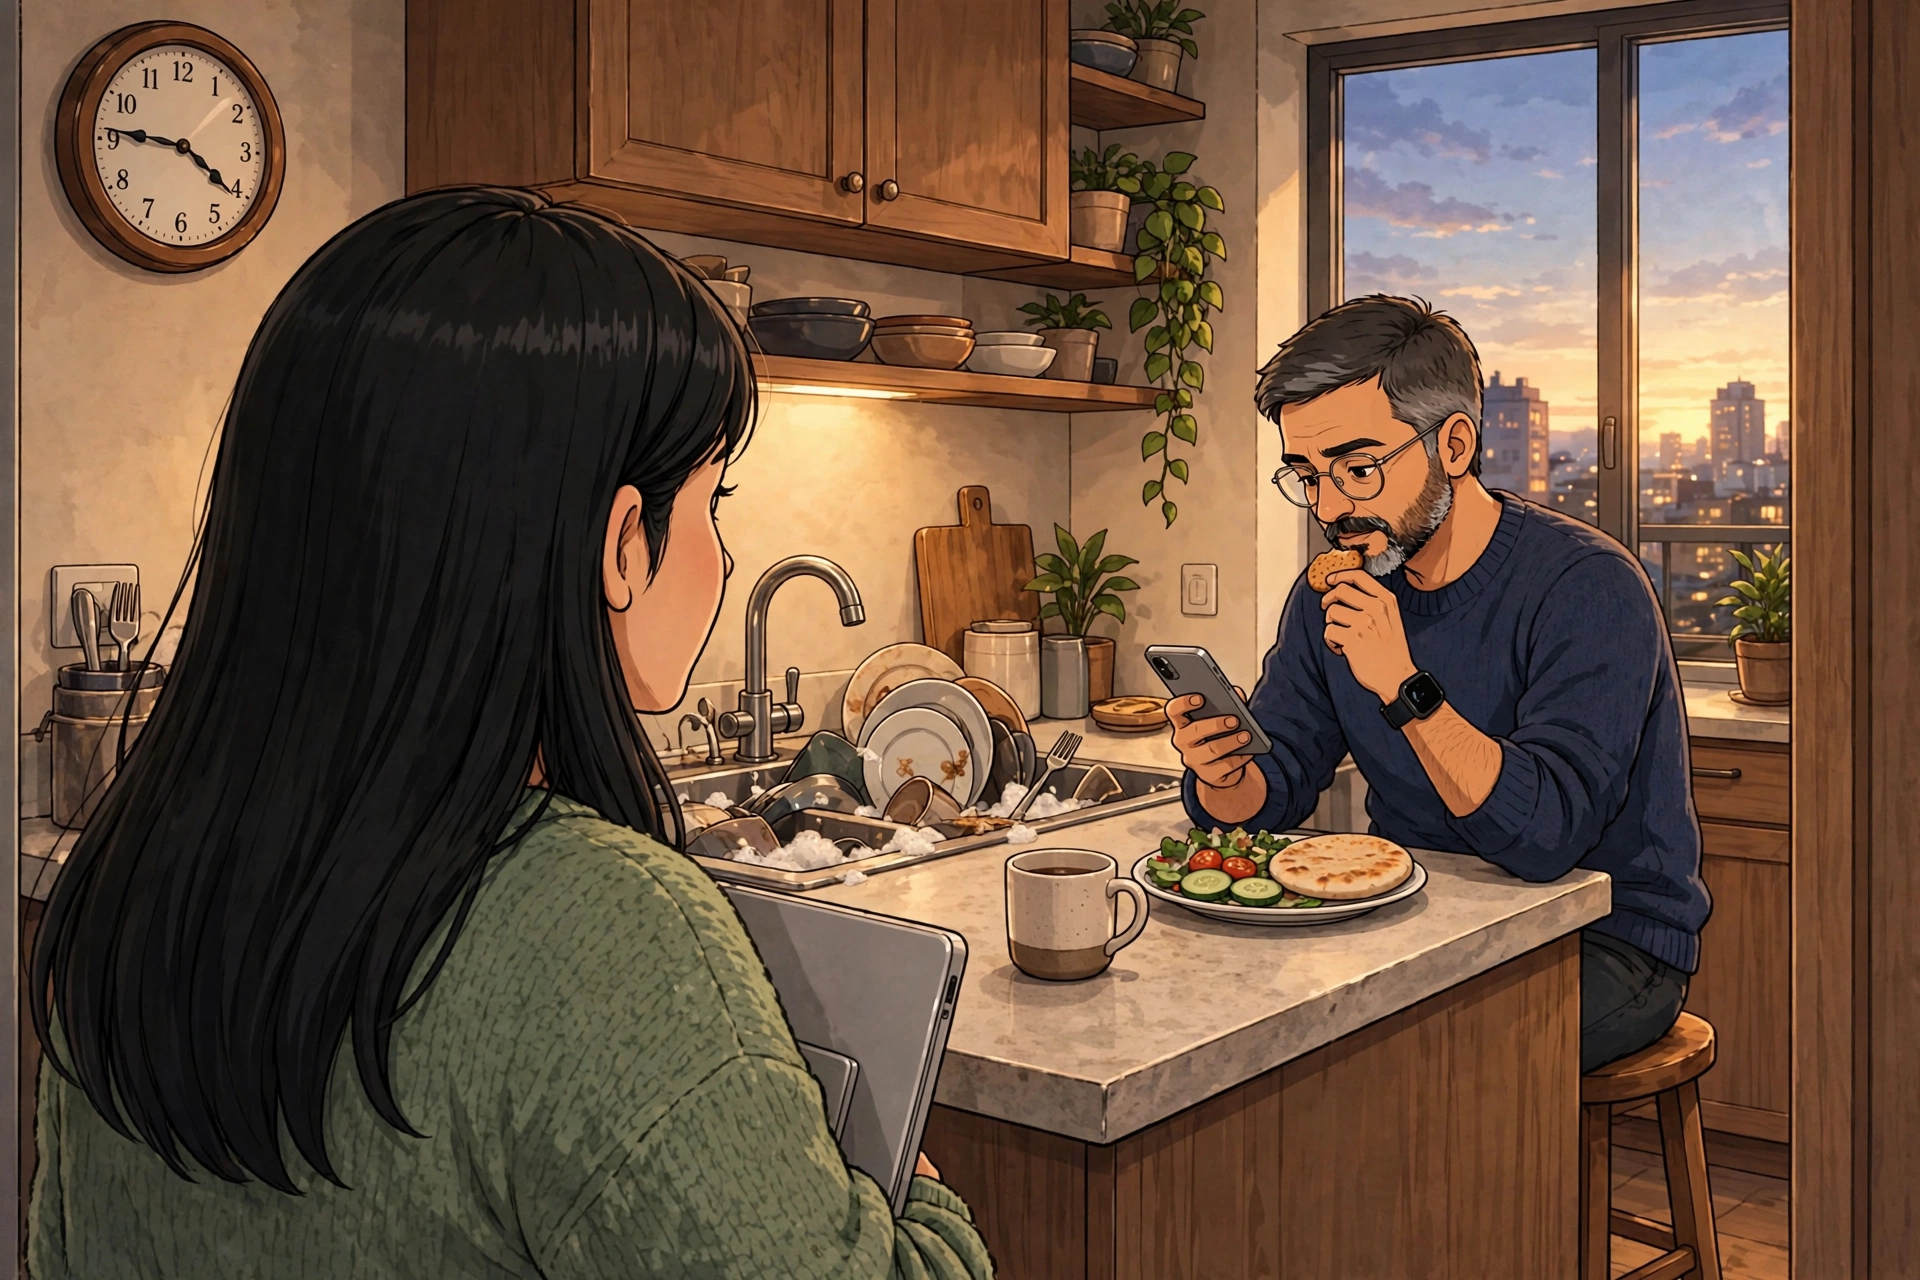
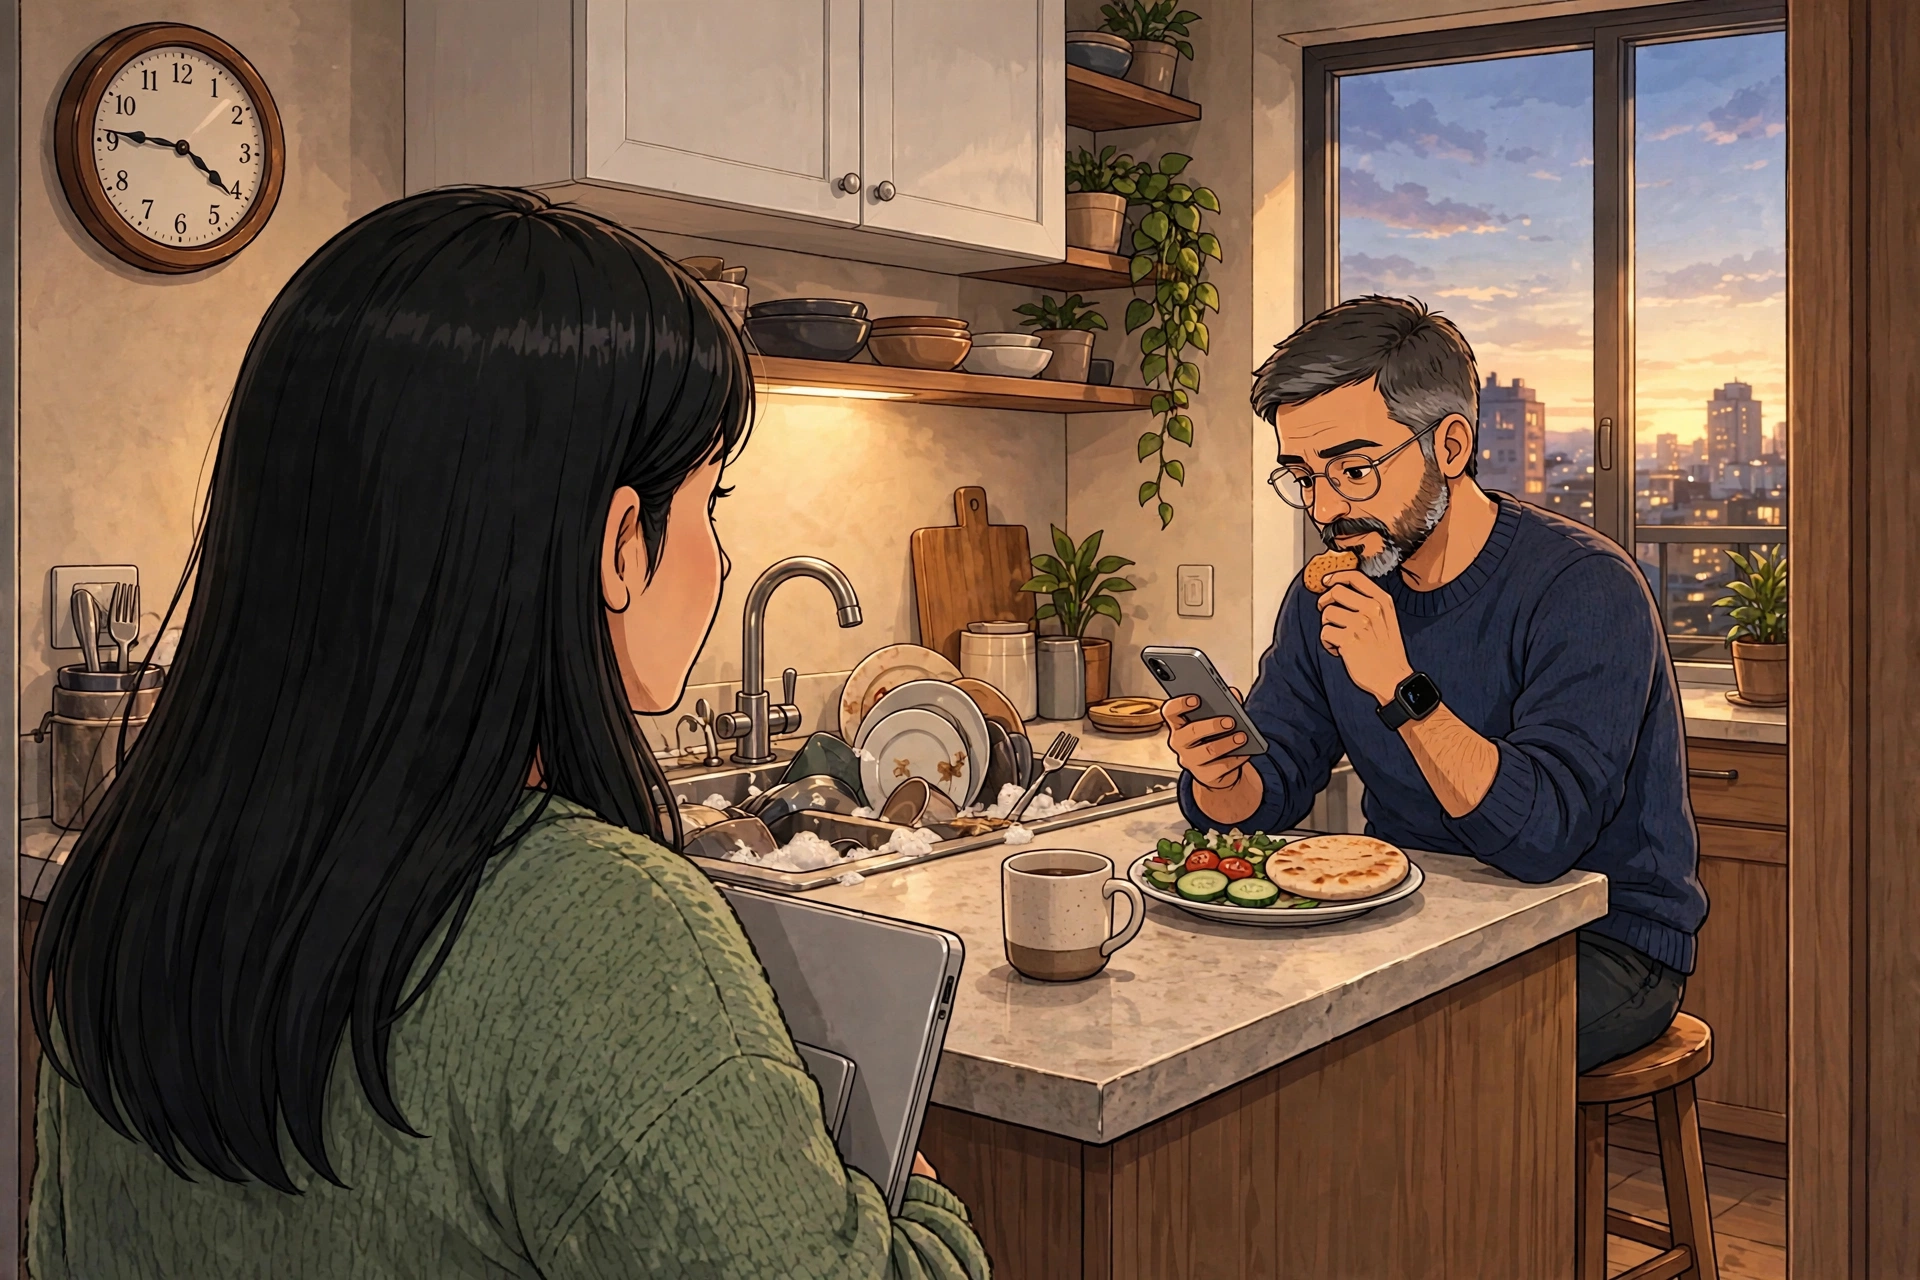
LOCK v1.2 house canon: white kitchen cabinets; strip 013 slides 1-2 corrected

diff --git a/characters/LOCK.md b/characters/LOCK.md
@@ -1,9 +1,8 @@
 # CHARACTER LOCK — v_do_stuff
 
-**Lock version: v1.1 — locked 2026-10-21 by Vibhor Tayal (owner).**
-(v1.1 adds the mandatory generation + lettering pipeline in the Design System
-section below — owner instruction 2026-10-21: "all future strips should adhere
-to these." The v1.0 character locks are unchanged.)
+**Lock version: v1.2 — locked 2026-10-21 by Vibhor Tayal (owner).**
+(v1.1 added the mandatory generation + lettering pipeline; v1.2 adds the House
+Design canon. The v1.0 character locks are unchanged.)
 Rule zero: the characters CANNOT drift. Continuity across every strip depends on this file.
 Any change to a canonical file below requires the owner's explicit approval, a new lock
 version, and a changelog entry. No agent may silently re-lock, substitute, or "improve"
@@ -50,6 +49,15 @@ no photo-realism. Use the attached reference images for the two main characters
 and keep their faces identical. Vertical 1080x1250, white caption band below,
 rounded sans-serif text, short understated caption. Check for extra hands, odd
 fingers, mirrored errors."
+
+**House design (canon — owner 2026-10-21, "consistency in the house design"):**
+The apartment is ONE house across all strips; interiors must not change between
+panels or strips.
+- Kitchen cabinets: WHITE (uppers and lowers), simple round knobs. (Generator
+  defaulted to wood in strips 013 slides 1–2 — corrected; slide 3 already white.)
+- Kitchen: light stone countertops, stainless sink, warm under-cabinet light.
+- More house details get added here as the owner calls them — when he names a
+  house feature, it becomes canon.
 
 **Process rules:**
 - Generate the SCENE ONLY — no text, no speech bubbles, no letters baked into the
@@ -117,3 +125,6 @@ fingers, mirrored errors."
   generation, lettering as a separate agent step, vertical format with caption band,
   QC checklist. Two published panels added to characters/refs/ as style references.
   Strip 013 is the first strip rebuilt under this pipeline.
+- v1.2 — 2026-10-21: House Design canon added (owner: "consistency in the house
+  design. cabinets white"). Kitchen cabinets are WHITE in canon; strip 013 slides
+  1–2 corrected to match slide 3.
